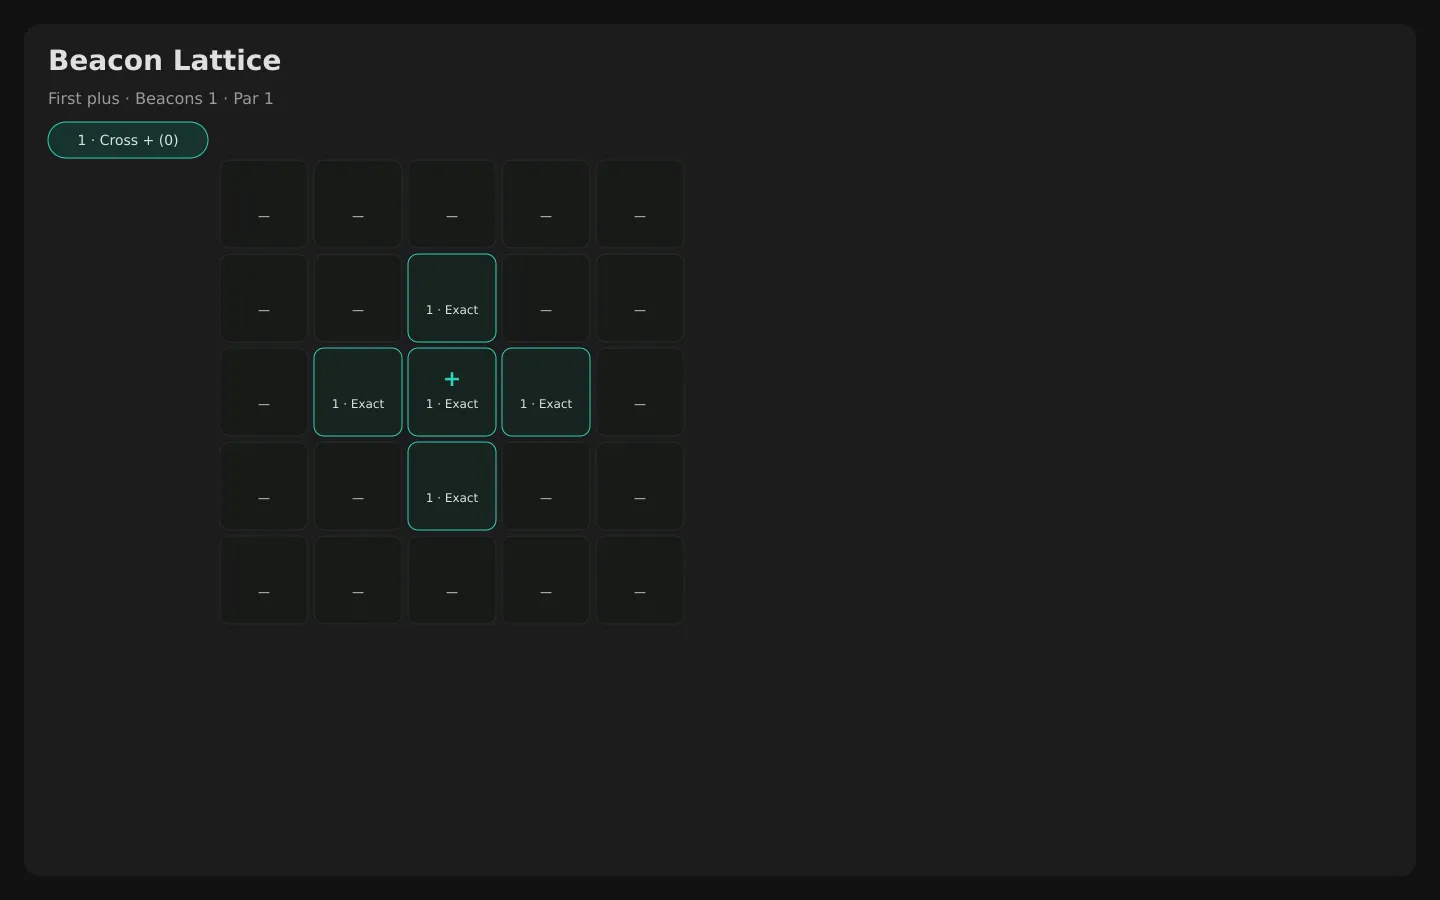
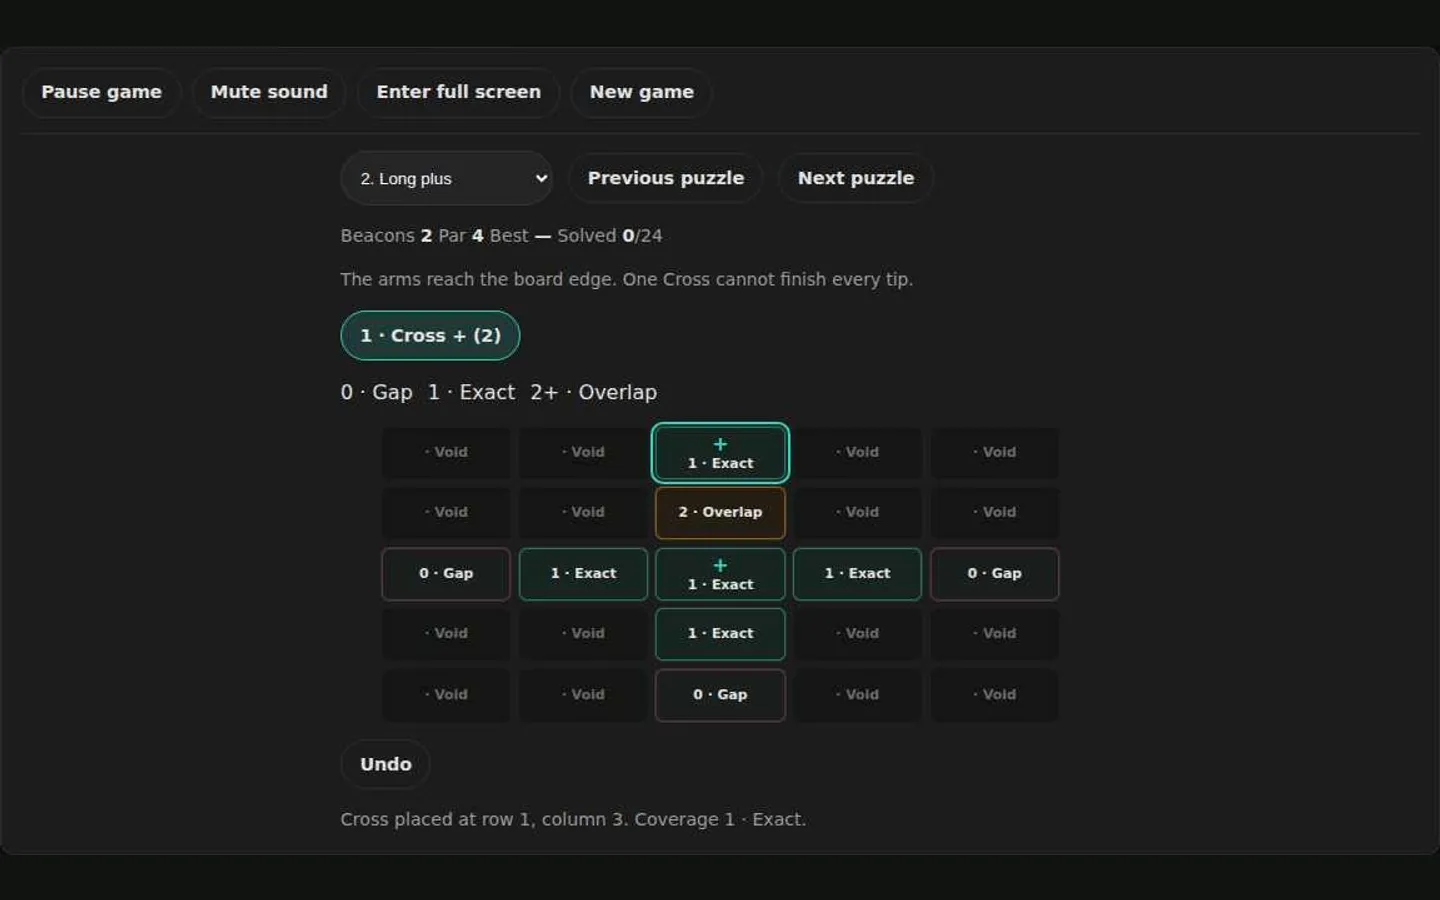
Replace Beacon Lattice stand-ins with mounted-DOM screenshots.
Capture used public UI only. Temporary CI image transport is removed.

diff --git a/tests/e2e/beacon-screenshots.spec.ts b/tests/e2e/beacon-screenshots.spec.ts
@@ -1,5 +1,3 @@
-import { readFileSync } from 'node:fs';
-
 import { expect, test } from '@playwright/test';
 
 import { denyOptionalServices } from './helpers/consent';
@@ -16,46 +14,27 @@ const stageLongPlusMixedCoverage = async (page: import('@playwright/test').Page)
   await page.evaluate(() => document.fonts.ready);
 };
 
-const emitChunks = (kind: 'notice' | 'warning', label: string, filePath: string) => {
-  const bytes = readFileSync(filePath);
-  const encoded = bytes.toString('base64');
-  const chunkSize = 4000;
-  const total = Math.ceil(encoded.length / chunkSize);
-  for (let index = 0; index < total; index += 1) {
-    const chunk = encoded.slice(index * chunkSize, (index + 1) * chunkSize);
-    console.log(
-      `::${kind} title=${label}_${String(index).padStart(2, '0')}_of_${String(total).padStart(2, '0')}_bytes_${bytes.byteLength}::${chunk}`,
-    );
-  }
-};
-
 test('captures actual Beacon Lattice gameplay screenshots', async ({ page }, testInfo) => {
-  test.skip(!process.env.CI && !process.env.CAPTURE_BEACON_SHOTS, 'CI or CAPTURE_BEACON_SHOTS=1 required.');
+  test.skip(!process.env.CAPTURE_BEACON_SHOTS, 'Set CAPTURE_BEACON_SHOTS=1 to write DOM screenshots.');
   await denyOptionalServices(page);
 
   await page.setViewportSize({ width: 1440, height: 900 });
   await page.goto('/games/beacon-lattice/');
   await stageLongPlusMixedCoverage(page);
-  const desktopPath = testInfo.outputPath('beacon-desktop.jpg');
   await page.locator('[data-game-viewport]').screenshot({
-    path: desktopPath,
-    type: 'jpeg',
-    quality: 48,
+    path: testInfo.outputPath('beacon-desktop.png'),
+    type: 'png',
     animations: 'disabled',
     caret: 'hide',
   });
-  emitChunks('notice', 'BEACON_DESKTOP', desktopPath);
 
   await page.setViewportSize({ width: 390, height: 844 });
   await page.goto('/games/beacon-lattice/');
   await stageLongPlusMixedCoverage(page);
-  const mobilePath = testInfo.outputPath('beacon-mobile.jpg');
   await page.locator('[data-game-viewport]').screenshot({
-    path: mobilePath,
-    type: 'jpeg',
-    quality: 48,
+    path: testInfo.outputPath('beacon-mobile.png'),
+    type: 'png',
     animations: 'disabled',
     caret: 'hide',
   });
-  emitChunks('warning', 'BEACON_MOBILE', mobilePath);
 });

diff --git a/docs/BEACON_LATTICE_CAPTURE.md b/docs/BEACON_LATTICE_CAPTURE.md
@@ -1,6 +1,6 @@
 # Beacon Lattice gameplay screenshot capture
 
-Real gameplay rasters must come from the mounted game DOM. Do not redraw the UI.
+Committed rasters are captures of the mounted game DOM (`[data-game-viewport]`), not reconstructed artwork.
 
 ## Command
 
@@ -9,26 +9,39 @@ npm run build
 npm run capture:beacon
 ```
 
-`npm run art:beacon` writes covers, diagrams, and `source.svg` only. It does not write `screenshot-desktop.webp` or `screenshot-mobile.webp`.
+`npm run art:beacon` writes covers, diagrams, and `source.svg` only. It does not create or overwrite `screenshot-desktop.webp` or `screenshot-mobile.webp`.
 
 Optional: `PLAYWRIGHT_CHROMIUM_EXECUTABLE_PATH` may point at a local Chromium. That path is not committed.
 
-## Route and viewports
+These files were last produced from GitHub Actions Chromium on commit `563681d` (run https://github.com/ITTYBITTYBITES/NoCharge/actions/runs/32267723566): the capture test opened the built preview of `/games/beacon-lattice/`, confirmed `is-game-mounted`, staged Long plus through the public UI, waited for `document.fonts.ready`, disabled animations for the screenshot, and captured `[data-game-viewport]`.
 
-| File | Route | Viewport | Output size |
-| --- | --- | --- | --- |
-| `public/game-art/beacon-lattice/screenshot-desktop.webp` | `/games/beacon-lattice/` | 1440×900 | 1440×900 |
-| `public/game-art/beacon-lattice/screenshot-mobile.webp` | `/games/beacon-lattice/` | 390×844 | 720×1280 (cover-resized from the mobile viewport capture) |
+## Route, browser, and viewports
 
-## Deterministic state
+| File | Route | Browser | Viewport | Captured region | Native capture | Final file |
+| --- | --- | --- | --- | --- | ---: | ---: |
+| `public/game-art/beacon-lattice/screenshot-desktop.webp` | `/games/beacon-lattice/` | Playwright Chromium | 1440×900 | `[data-game-viewport]` | 1152×648 | 1440×900 |
+| `public/game-art/beacon-lattice/screenshot-mobile.webp` | `/games/beacon-lattice/` | Playwright Chromium | 390×844 | `[data-game-viewport]` | 370×788 | 720×1280 |
 
-The capture script uses only the public game UI after mount:
+The native sizes are the laid-out game region inside the viewport, not a stretched window.
+
+## Fitting into the asset convention
+
+Other Quiet Arcade screenshots use 1440×900 desktop and 720×1280 mobile. Beacon captures keep aspect ratio:
+
+```bash
+sharp(desktopCapture).resize(1440, 900, { fit: 'contain', background: '#101210' }).webp({ quality: 80 })
+sharp(mobileCapture).resize(720, 1280, { fit: 'contain', background: '#101210' }).webp({ quality: 80 })
+```
+
+`contain` scales proportionally and pads. It does not stretch. The 390×844 session is not cover-cropped; unused bands stay the page background.
+
+## Public UI state
 
 1. Confirm `[data-game-root="beacon-lattice"]` has `is-game-mounted`.
 2. Choose **Long plus** (`bl-02-long-plus`) in the puzzle selector.
-3. Select the Cross type button.
+3. Select Cross.
 4. Click **Row 3, column 3**, then **Row 1, column 3**.
 
-That state shows Gap, Exact, and Overlap labels on the live board together with the type buttons and puzzle selector. Production play has no query parameter, global debug object, or placement injection API.
+The board then shows Gap, Exact, and Overlap together with the type control and selector. Production play has no query parameter, global debug object, or placement injection API.
 
-Consent is seeded denied so the capture is not covered by the analytics banner.
+Consent is seeded denied so the analytics banner is not in the frame.

diff --git a/docs/ART_ASSETS.md b/docs/ART_ASSETS.md
@@ -54,8 +54,8 @@ All packages are original Quiet Arcade work. Raster covers are reproducible with
 | beacon-lattice / `guide-header.jpg` | 1280×640 | 17.3 KB |
 | beacon-lattice / `guide-header.webp` | 1280×640 | 30.3 KB |
 | beacon-lattice / `icon.svg` | vector | 0.4 KB |
-| beacon-lattice / `screenshot-desktop.webp` | 1440×900 | 16 KB |
-| beacon-lattice / `screenshot-mobile.webp` | 720×1280 | 12 KB |
+| beacon-lattice / `screenshot-desktop.webp` | 1440×900 | 29.2 KB |
+| beacon-lattice / `screenshot-mobile.webp` | 720×1280 | 36.5 KB |
 | beacon-lattice / `social-card.jpg` | 1200×630 | 17.3 KB |
 | beacon-lattice / `social-card.webp` | 1200×630 | 27.7 KB |
 | beacon-lattice / `source.svg` | vector | 2.4 KB |
